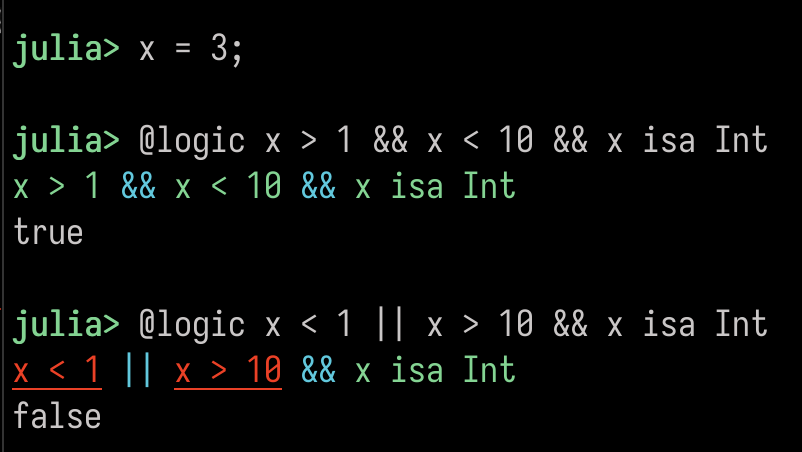
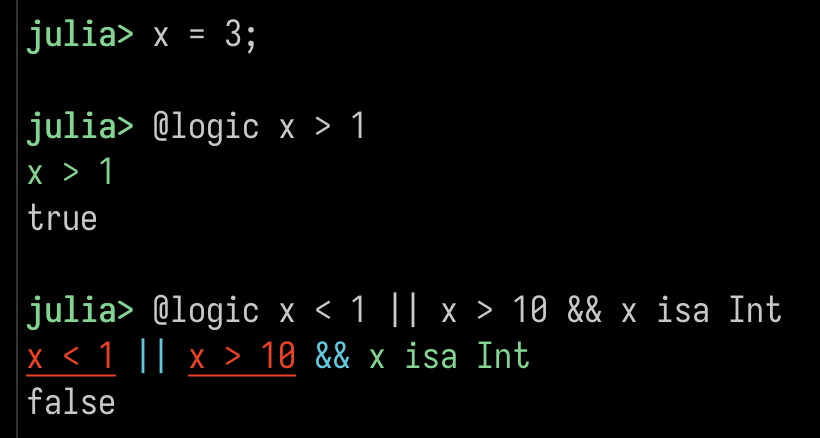
`@logic` expr with various arguments

diff --git a/README.md b/README.md
@@ -14,25 +14,33 @@ To help understanding the bitwise (`&`, `|`), short-circuiting booleans (`&&`, `
 julia> using LogicalOperators
 
 julia> @logic 4 & 10
-  00000100
-& 00001010
-----------
-  00000000
+   0b0100  4
+ & 0b1010 10
+   0b0000  0
 0
 
 julia> @logic 4 | 10
-  00000100
-| 00001010
-----------
-  00001110
+   0b0100  4
+ | 0b1010 10
+   0b1110 14
 14
+
+julia> @logic 4 | 10 | 1
+   0b0100  4
+ | 0b1010 10
+   0b1110 14
+ | 0b0001  1
+   0b1111 15
+15
 ```
 
 ```julia-repl
+julia> using LogicalOperators
+
 julia> x = 3;
 
-julia> @logic x > 1 && x < 10 && x isa Int
-x > 1 && x < 10 && x isa Int
+julia> @logic x > 1
+x > 1
 true
 
 julia> @logic x < 1 || x > 10 && x isa Int

diff --git a/docs/src/logic.md b/docs/src/logic.md
@@ -10,25 +10,33 @@ To help understanding the bitwise (`&`, `|`), short-circuiting booleans (`&&`, `
 julia> using LogicalOperators
 
 julia> @logic 4 & 10
-  00000100
-& 00001010
-----------
-  00000000
+   0b0100  4
+ & 0b1010 10
+   0b0000  0
 0
 
 julia> @logic 4 | 10
-  00000100
-| 00001010
-----------
-  00001110
+   0b0100  4
+ | 0b1010 10
+   0b1110 14
 14
+
+julia> @logic 4 | 10 | 1
+   0b0100  4
+ | 0b1010 10
+   0b1110 14
+ | 0b0001  1
+   0b1111 15
+15
 ```
 
 ```julia-repl
+julia> using LogicalOperators
+
 julia> x = 3;
 
-julia> @logic x > 1 && x < 10 && x isa Int
-x > 1 && x < 10 && x isa Int
+julia> @logic x > 1
+x > 1
 true
 
 julia> @logic x < 1 || x > 10 && x isa Int
